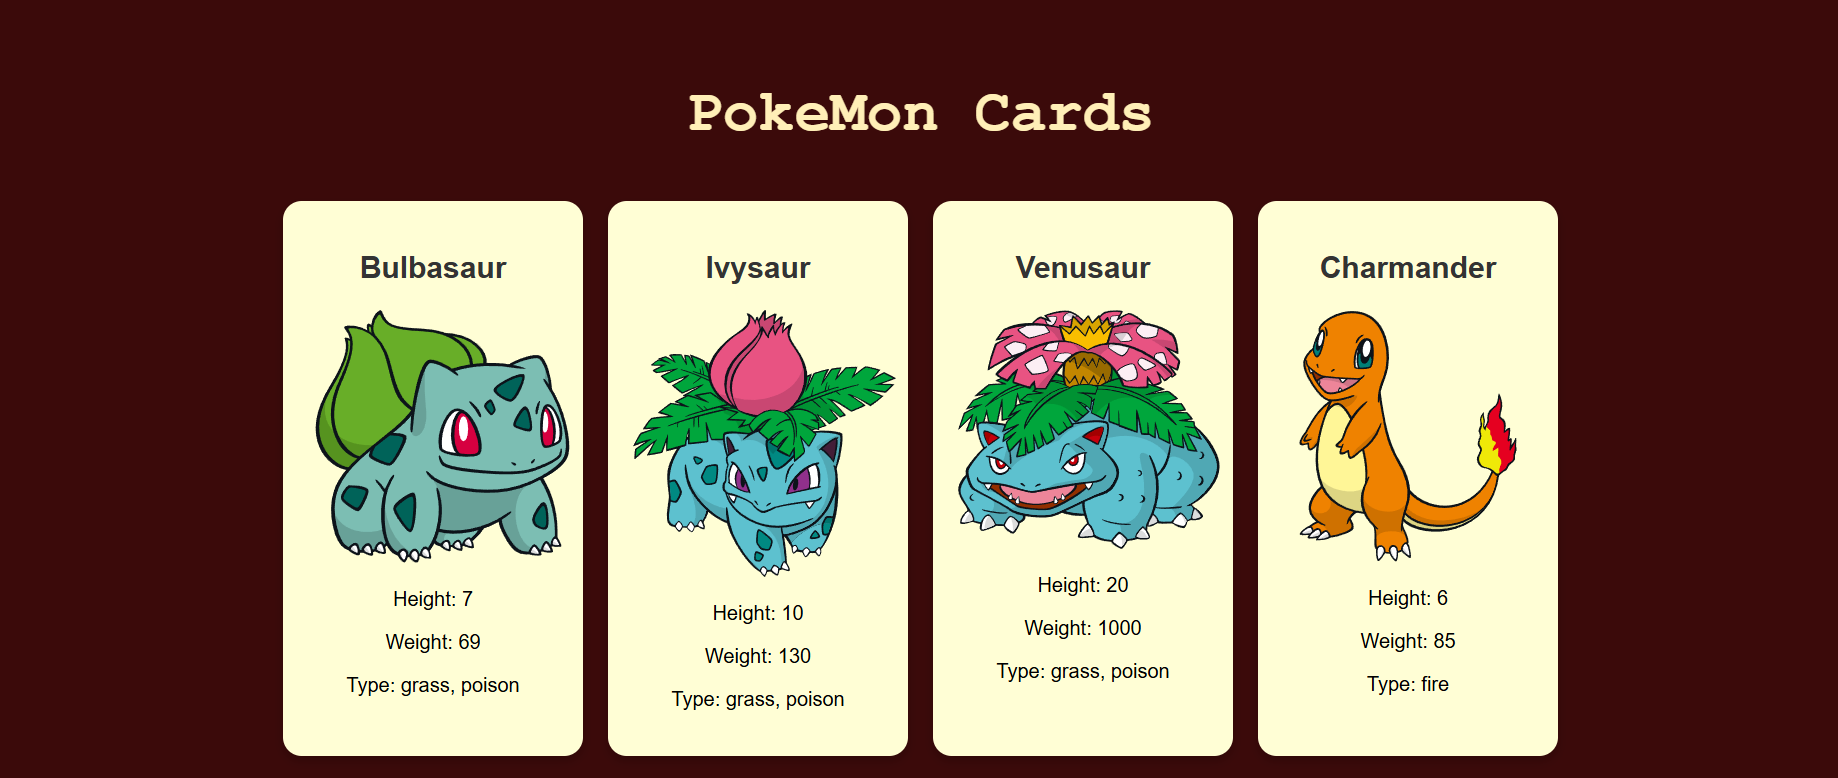
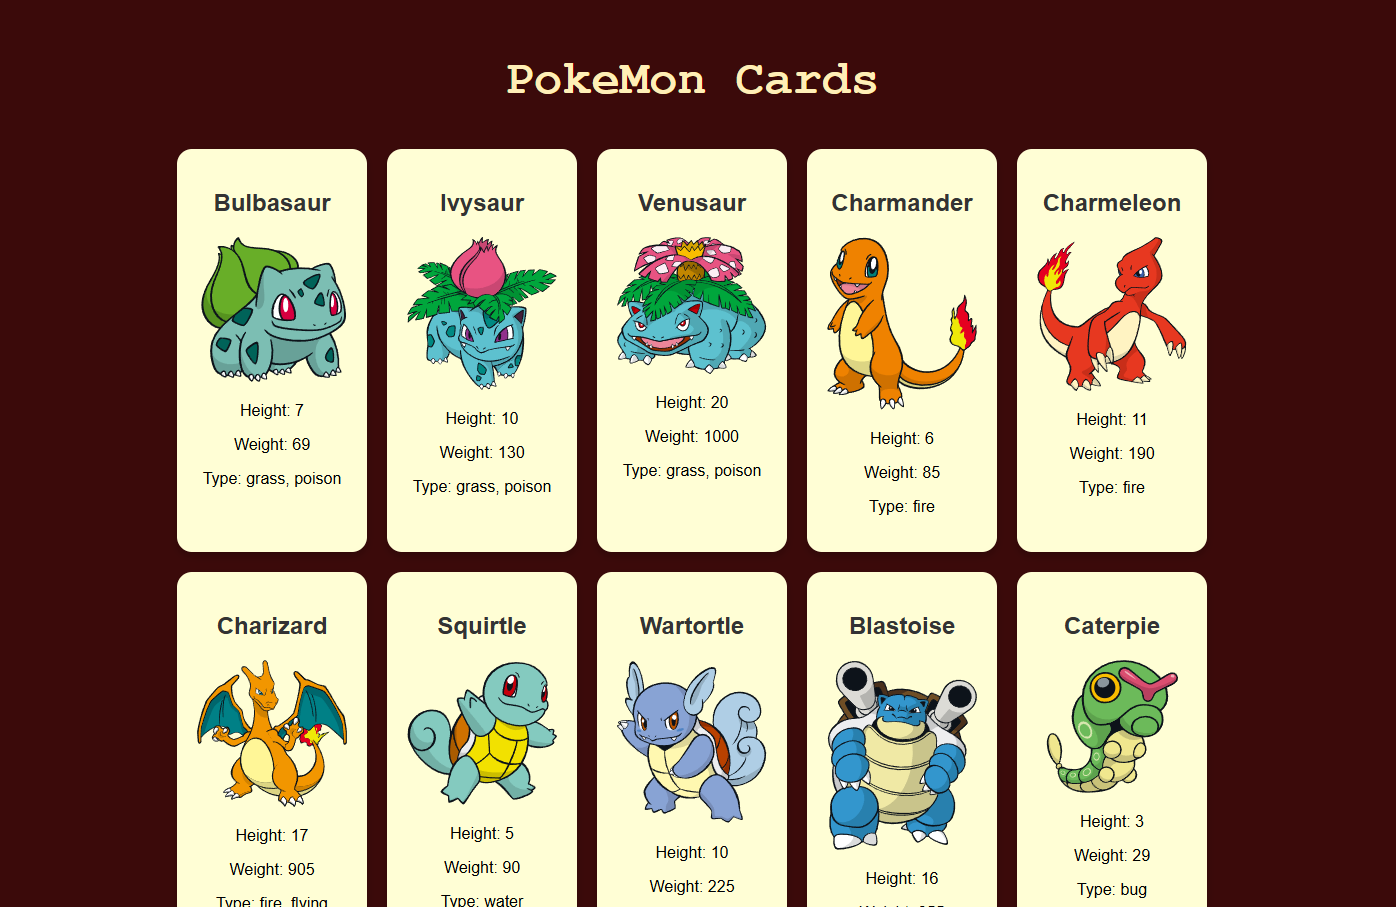
docs(page, cdn): attached new page design and aws cdn into readme

diff --git a/README.md b/README.md
@@ -15,3 +15,5 @@
 - Doppler Secrets
 
 ![](./docs/doppler-secrets.png)
+
+- [AWS Cloudfront CDN](da180dimbskta.cloudfront.net)
